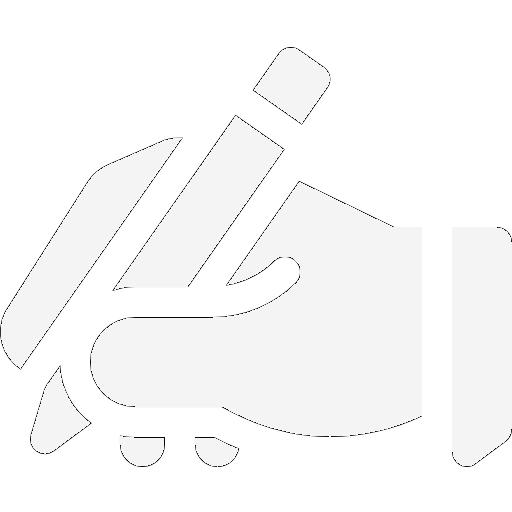
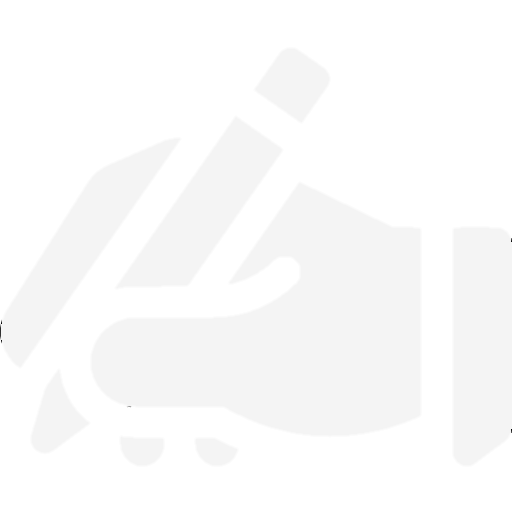
dodanobiały penWhite do buttonow i jest przejscie po najechali na ciemny i po mouse live na jasny

Changed region(s): [[0.4375, 0.5312, 0.4688, 0.5625], [0.1562, 0.8125, 0.1875, 0.8438], [0.0938, 0.7188, 0.125, 0.75]]

diff --git a/ScaleniaMW/WindowPrzypiszKW.xaml b/ScaleniaMW/WindowPrzypiszKW.xaml
@@ -98,19 +98,18 @@
                 </DockPanel>
             </Grid>
             <StackPanel>
-                <Button x:Name="buttonPrzypisz" Height="125" Width="120" HorizontalAlignment="Left" FontWeight="Bold" Foreground="White" Background="#275ea2" VerticalAlignment="Top" Margin="0,20" Click="Button_PrzypiszZaznJedn" >
+                <Button x:Name="buttonPrzypisz" Height="125" Width="120" HorizontalAlignment="Left" MouseLeave="ButtonPrzypisz_MouseLeave" MouseEnter="ButtonPrzypisz_MouseEnter" FontWeight="Bold" Foreground="White" Background="#275ea2" VerticalAlignment="Top" Margin="0,20" Click="Button_PrzypiszZaznJedn" >
                     <StackPanel HorizontalAlignment="Center">
                         <!--<Label HorizontalAlignment="Center" Foreground="{Binding ElementName=buttonPrzypisz, Path=Foreground}">-> -> -> -></Label>-->
                         <Label HorizontalAlignment="Center" Foreground="{Binding ElementName=buttonPrzypisz, Path=Foreground}">PRZYPISZ</Label>
                         <Label HorizontalAlignment="Center" Foreground="{Binding ElementName=buttonPrzypisz, Path=Foreground}">WYBRANĄ</Label>
                         <!--<Label HorizontalAlignment="Center" Foreground="{Binding ElementName=buttonPrzypisz, Path=Foreground}">-> -> -> -></Label>-->
-                        <Image HorizontalAlignment="Stretch" Width="40" VerticalAlignment="Stretch" Source="Resources/pen.png">
-                         
-                        </Image>
+                        <Image x:Name="imageHand" HorizontalAlignment="Stretch" Width="40" VerticalAlignment="Stretch" Source="Resources/PenWhite.png"/>
+
 
                     </StackPanel>
                 </Button>
-                <Label FontFamily="Times" FontSize="55" HorizontalAlignment="Center" Foreground="DarkViolet" FontWeight="Heavy">KW</Label>
+                <Label FontFamily="Times" FontSize="55" HorizontalAlignment="Center" Foreground="#275ea2" FontWeight="Heavy">KW</Label>
             </StackPanel>
             <DataGrid Margin="5,0" x:Name="dgNrKwZSQL" CanUserDeleteRows="False" CellEditEnding="DgNrKwZSQL_CellEditEnding" CurrentCellChanged="DgNrKwZSQL_CurrentCellChanged"/>
         </DockPanel>

diff --git a/ScaleniaMW/WindowPrzypiszRejGr.xaml b/ScaleniaMW/WindowPrzypiszRejGr.xaml
@@ -97,14 +97,13 @@
                 </DockPanel>
             </Grid>
             <StackPanel>
-                <Button Height="125" Width="120" HorizontalAlignment="Left" x:Name="buttonPrzypisz" VerticalAlignment="Top" Margin="0,20" Click="Button_PrzypiszZaznJedn" Background="#2676d0" FontWeight="Bold" Foreground="White" >
+                <Button Height="125" Width="120" HorizontalAlignment="Left" x:Name="buttonPrzypisz" MouseEnter="ButtonPrzypisz_MouseEnter" MouseLeave="ButtonPrzypisz_MouseLeave" VerticalAlignment="Top" Margin="0,20" Click="Button_PrzypiszZaznJedn" Background="#2676d0" FontWeight="Bold" Foreground="White" >
                     <StackPanel HorizontalAlignment="Center">
                         <!--<Label HorizontalAlignment="Center" Foreground="{Binding ElementName=buttonPrzypisz, Path=Foreground}">-> -> -> -></Label>-->
                         <Label HorizontalAlignment="Center" Foreground="{Binding ElementName=buttonPrzypisz, Path=Foreground}">PRZYPISZ</Label>
                         <Label HorizontalAlignment="Center" Foreground="{Binding ElementName=buttonPrzypisz, Path=Foreground}">WYBRANĄ</Label>
                         <!--<Label HorizontalAlignment="Center" Foreground="{Binding ElementName=buttonPrzypisz, Path=Foreground}">-> -> -> -></Label>-->
-                        <Image   HorizontalAlignment="Stretch" Width="40" VerticalAlignment="Stretch" Source="Resources/pen.png"/>
-
+                        <Image  x:Name="imageHand" HorizontalAlignment="Stretch" Width="40" VerticalAlignment="Stretch" Source="Resources/PenWhite.png"/>
                     </StackPanel>
                 </Button>
                 <Label FontFamily="Times" FontSize="55" HorizontalAlignment="Center" Foreground="#2676d0" FontWeight="Heavy">NJR</Label>

diff --git a/ScaleniaMW/WindowPrzypiszKW.xaml.cs b/ScaleniaMW/WindowPrzypiszKW.xaml.cs
@@ -625,6 +625,31 @@ namespace ScaleniaMW
             var resultat = MessageBox.Show(tekstPomoc, "POMOC", MessageBoxButton.OK);
 
         }
+
+        private void ButtonPrzypisz_MouseEnter(object sender, MouseEventArgs e)
+        {
+            buttonPrzypisz.Foreground = Brushes.Black;
+           
+            BitmapImage bi3 = new BitmapImage();
+            bi3.BeginInit();
+            bi3.UriSource = new Uri("Resources/pen.png", UriKind.Relative);
+            bi3.EndInit();
+            imageHand.Stretch = Stretch.Fill;
+            imageHand.Source = bi3;
+            // imageHand.Source = "Resources / PenWhite.png";
+        }
+
+        private void ButtonPrzypisz_MouseLeave(object sender, MouseEventArgs e)
+        {
+            buttonPrzypisz.Foreground = Brushes.White;
+
+            BitmapImage bi3 = new BitmapImage();
+            bi3.BeginInit();
+            bi3.UriSource = new Uri("Resources/PenWhite.png", UriKind.Relative);
+            bi3.EndInit();
+            imageHand.Stretch = Stretch.Fill;
+            imageHand.Source = bi3;
+        }
     }
 }
 

diff --git a/ScaleniaMW/WindowPrzypiszRejGr.xaml.cs b/ScaleniaMW/WindowPrzypiszRejGr.xaml.cs
@@ -548,6 +548,30 @@ namespace ScaleniaMW
             }
 
         }
+
+        private void ButtonPrzypisz_MouseEnter(object sender, MouseEventArgs e)
+        {
+            buttonPrzypisz.Foreground = Brushes.Black;
+
+            BitmapImage bi3 = new BitmapImage();
+            bi3.BeginInit();
+            bi3.UriSource = new Uri("Resources/pen.png", UriKind.Relative);
+            bi3.EndInit();
+            imageHand.Stretch = Stretch.Fill;
+            imageHand.Source = bi3;
+        }
+
+        private void ButtonPrzypisz_MouseLeave(object sender, MouseEventArgs e)
+        {
+            buttonPrzypisz.Foreground = Brushes.White;
+
+            BitmapImage bi3 = new BitmapImage();
+            bi3.BeginInit();
+            bi3.UriSource = new Uri("Resources/PenWhite.png", UriKind.Relative);
+            bi3.EndInit();
+            imageHand.Stretch = Stretch.Fill;
+            imageHand.Source = bi3;
+        }
     }
 }
 
